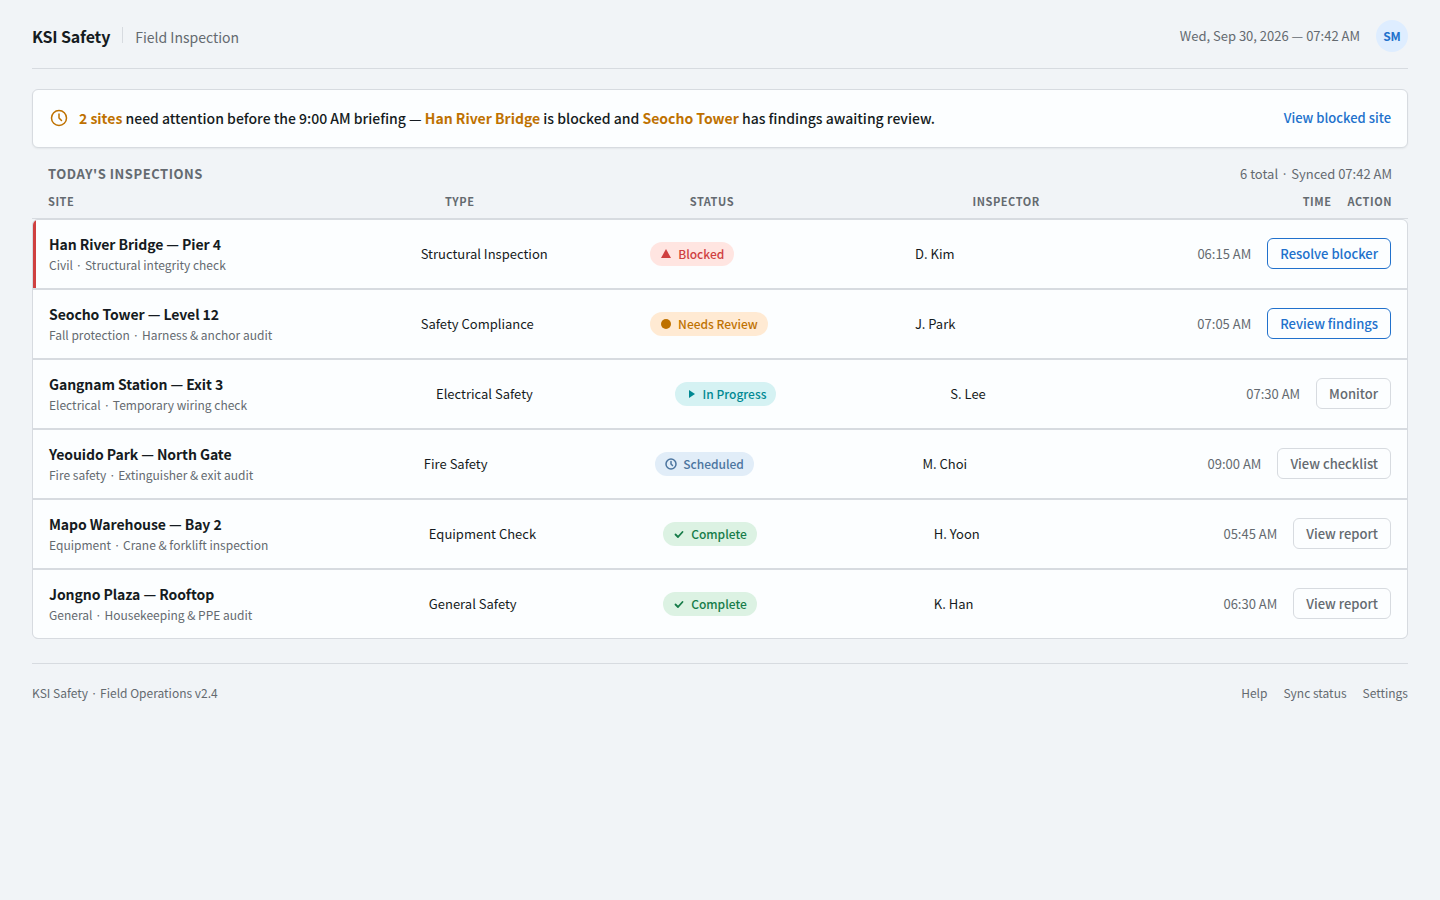
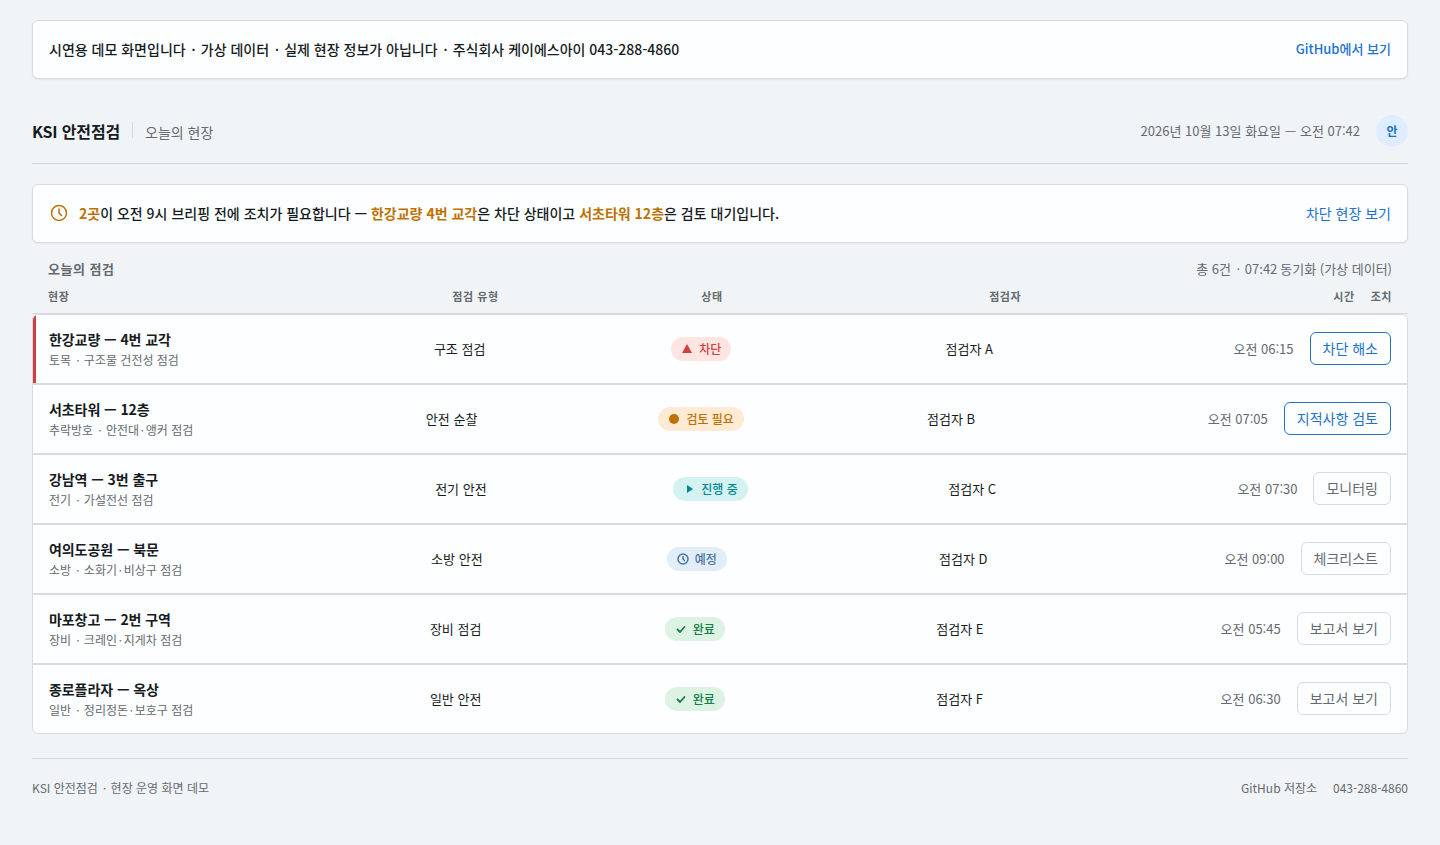
docs: 포트폴리오 문구와 반응형 시연 화면 개선

diff --git a/docs/demo-safety/index.html b/docs/demo-safety/index.html
@@ -2,7 +2,8 @@
 <html lang="ko">
 <head>
 <meta charset="UTF-8">
-<meta name="viewport" content="width=1440">
+<meta name="viewport" content="width=device-width, initial-scale=1">
+<meta name="description" content="가상 데이터를 사용한 KSI 현장 안전점검 화면 시연. 실제 현장·API·저장 기능과 연결되지 않은 정적 포트폴리오 데모입니다.">
 <title>KSI 안전점검 — 오늘의 현장 (시연용 데모)</title>
 <style>
   :root {
@@ -144,6 +145,17 @@
     border-bottom: 1px solid transparent;
     transition: border-color 0.15s;
   }
+
+  button.summary-action,
+  button.next-action,
+  button.next-action-secondary {
+    appearance: none;
+    background: transparent;
+    font: inherit;
+    cursor: pointer;
+  }
+
+  button.summary-action { border: 0; }
 
   .summary-action:hover {
     border-bottom-color: var(--accent);
@@ -351,106 +363,6 @@
     outline-offset: 2px;
   }
 
-  /* ── Empty state ── */
-  .empty-state {
-    display: flex;
-    flex-direction: column;
-    align-items: center;
-    justify-content: center;
-    padding: 64px 24px;
-    background: var(--surface);
-    border: 1px solid var(--border);
-    border-radius: var(--radius);
-    text-align: center;
-  }
-
-  .empty-icon {
-    width: 40px;
-    height: 40px;
-    color: var(--muted);
-    margin-bottom: 16px;
-  }
-
-  .empty-title {
-    font-size: 15px;
-    font-weight: 600;
-    margin-bottom: 6px;
-  }
-
-  .empty-desc {
-    font-size: 13px;
-    color: var(--muted);
-    max-width: 360px;
-  }
-
-  .empty-action {
-    margin-top: 16px;
-    font-size: 13px;
-    font-weight: 500;
-    color: var(--accent);
-    text-decoration: none;
-    padding: 6px 14px;
-    border: 1px solid var(--accent);
-    border-radius: var(--radius);
-    transition: background 0.12s, color 0.12s;
-  }
-
-  .empty-action:hover {
-    background: var(--accent);
-    color: var(--accent-fg);
-  }
-
-  /* ── Error state ── */
-  .error-state {
-    display: flex;
-    align-items: flex-start;
-    gap: 12px;
-    padding: 16px;
-    background: var(--status-bg-blocked);
-    border: 1px solid var(--status-blocked);
-    border-radius: var(--radius);
-    margin-top: 16px;
-  }
-
-  .error-icon {
-    width: 20px;
-    height: 20px;
-    flex-shrink: 0;
-    color: var(--status-blocked);
-    margin-top: 1px;
-  }
-
-  .error-title {
-    font-size: 14px;
-    font-weight: 600;
-    color: var(--status-blocked);
-    margin-bottom: 2px;
-  }
-
-  .error-desc {
-    font-size: 13px;
-    color: var(--fg);
-  }
-
-  .error-retry {
-    margin-left: auto;
-    font-size: 13px;
-    font-weight: 500;
-    color: var(--status-blocked);
-    text-decoration: none;
-    padding: 5px 12px;
-    border: 1px solid var(--status-blocked);
-    border-radius: var(--radius);
-    white-space: nowrap;
-    flex-shrink: 0;
-    transition: background 0.12s, color 0.12s;
-  }
-
-  .error-retry:hover {
-    background: var(--status-blocked);
-    color: var(--surface);
-  }
-
   /* ── Footer ── */
   .footer {
     display: flex;
@@ -477,6 +389,69 @@
   .footer-link:hover {
     color: var(--fg);
   }
+
+  .demo-toast {
+    position: fixed;
+    z-index: 5;
+    left: 50%;
+    bottom: 20px;
+    transform: translateX(-50%);
+    max-width: calc(100vw - 32px);
+    padding: 11px 16px;
+    border-radius: var(--radius);
+    background: var(--fg);
+    color: var(--surface);
+    box-shadow: var(--shadow-md);
+    text-align: center;
+    font-size: 13px;
+  }
+
+  @media (max-width: 800px) {
+    .app { padding: 0 16px 32px; }
+    .summary-bar { align-items: flex-start; flex-wrap: wrap; gap: 10px; padding: 12px; }
+    .summary-action { margin-left: 30px; }
+    .header { align-items: flex-start; flex-wrap: wrap; gap: 10px; }
+    .header-right { gap: 9px; }
+    .date-display { font-size: 12px; }
+    .list-header { padding: 0 2px 10px; }
+    .column-header { display: none; }
+    .inspection-row {
+      grid-template-columns: repeat(2, minmax(0, 1fr));
+      align-items: start;
+      gap: 12px 16px;
+      padding: 14px;
+    }
+    .inspection-row > div:first-child { grid-column: 1 / -1; }
+    .inspection-row > div:nth-child(2)::before { content: "점검 유형"; }
+    .inspection-row > div:nth-child(3)::before { content: "상태"; }
+    .inspection-row > div:nth-child(4)::before { content: "점검자"; }
+    .inspection-row > div:nth-child(5)::before { content: "시간"; }
+    .inspection-row > div:nth-child(n + 2):nth-child(-n + 5)::before {
+      display: block;
+      margin-bottom: 4px;
+      color: var(--muted);
+      font-size: 11px;
+      font-weight: 600;
+    }
+    .time-display { text-align: left; }
+    .inspection-row > button { grid-column: 1 / -1; justify-self: start; }
+    .footer { align-items: flex-start; flex-direction: column; gap: 10px; }
+  }
+
+  @media (max-width: 420px) {
+    .app { padding-right: 12px; padding-left: 12px; }
+    .summary-action { margin-left: 0; }
+    .header-left { gap: 8px; }
+    .header-divider { display: none; }
+    .header-right { width: 100%; justify-content: space-between; }
+    .inspection-row { gap: 11px 10px; padding: 12px; }
+    .next-action,
+    .next-action-secondary { padding: 5px 9px; font-size: 12px; }
+  }
+
+  @media (prefers-reduced-motion: reduce) {
+    *, *::before, *::after { scroll-behavior: auto !important; transition-duration: 0.01ms !important; }
+  }
 </style>
 </head>
 <body>
@@ -496,8 +471,8 @@
       <span class="page-title">오늘의 현장</span>
     </div>
     <div class="header-right">
-      <span class="date-display">2026년 9월 30일 수요일 — 오전 07:42</span>
-      <div class="user-avatar" title="Safety Manager">SM</div>
+      <span class="date-display">2026년 10월 13일 화요일 — 오전 07:42</span>
+      <div class="user-avatar" title="안전관리자">안</div>
     </div>
   </header>
 
@@ -508,7 +483,7 @@
       <circle cx="10" cy="10" r="7.5"/>
     </svg>
     <span class="summary-text"><strong>2곳</strong>이 오전 9시 브리핑 전에 조치가 필요합니다 — <strong>한강교량 4번 교각</strong>은 차단 상태이고 <strong>서초타워 12층</strong>은 검토 대기입니다.</span>
-    <a href="#" class="summary-action">차단 현장 보기</a>
+    <button class="summary-action" type="button" data-demo-target="inspection-row-han-river">차단 현장 보기</button>
   </div>
 
   <!-- List header -->
@@ -531,7 +506,7 @@
   <div class="inspection-list" data-od-id="inspection-list">
 
     <!-- Row 1: Blocked -->
-    <div class="inspection-row inspection-row-critical" data-od-id="inspection-row-han-river">
+    <div class="inspection-row inspection-row-critical" id="inspection-row-han-river" data-od-id="inspection-row-han-river">
       <div>
         <div class="site-name">한강교량 — 4번 교각</div>
         <div class="site-meta">토목 · 구조물 건전성 점검</div>
@@ -543,9 +518,9 @@
           차단
         </span>
       </div>
-      <div class="inspector-name">김도윤</div>
+      <div class="inspector-name">점검자 A</div>
       <div class="time-display">오전 06:15</div>
-      <a href="#" class="next-action">차단 해소</a>
+      <button class="next-action" type="button" data-demo-action="차단 해소">차단 해소</button>
     </div>
 
     <!-- Row 2: Needs review -->
@@ -561,9 +536,9 @@
           검토 필요
         </span>
       </div>
-      <div class="inspector-name">박지훈</div>
+      <div class="inspector-name">점검자 B</div>
       <div class="time-display">오전 07:05</div>
-      <a href="#" class="next-action">지적사항 검토</a>
+      <button class="next-action" type="button" data-demo-action="지적사항 검토">지적사항 검토</button>
     </div>
 
     <!-- Row 3: In progress -->
@@ -579,9 +554,9 @@
           진행 중
         </span>
       </div>
-      <div class="inspector-name">이서연</div>
+      <div class="inspector-name">점검자 C</div>
       <div class="time-display">오전 07:30</div>
-      <a href="#" class="next-action-secondary">모니터링</a>
+      <button class="next-action-secondary" type="button" data-demo-action="모니터링">모니터링</button>
     </div>
 
     <!-- Row 4: Scheduled -->
@@ -597,9 +572,9 @@
           예정
         </span>
       </div>
-      <div class="inspector-name">최민준</div>
+      <div class="inspector-name">점검자 D</div>
       <div class="time-display">오전 09:00</div>
-      <a href="#" class="next-action-secondary">체크리스트</a>
+      <button class="next-action-secondary" type="button" data-demo-action="체크리스트">체크리스트</button>
     </div>
 
     <!-- Row 5: Complete -->
@@ -615,9 +590,9 @@
           완료
         </span>
       </div>
-      <div class="inspector-name">윤하늘</div>
+      <div class="inspector-name">점검자 E</div>
       <div class="time-display">오전 05:45</div>
-      <a href="#" class="next-action-secondary">보고서 보기</a>
+      <button class="next-action-secondary" type="button" data-demo-action="보고서 보기">보고서 보기</button>
     </div>
 
     <!-- Row 6: Complete -->
@@ -633,37 +608,39 @@
           완료
         </span>
       </div>
-      <div class="inspector-name">한결</div>
+      <div class="inspector-name">점검자 F</div>
       <div class="time-display">오전 06:30</div>
-      <a href="#" class="next-action-secondary">보고서 보기</a>
+      <button class="next-action-secondary" type="button" data-demo-action="보고서 보기">보고서 보기</button>
     </div>
 
-  </div>
-
-  <!-- Error state (hidden by default, shown when data fails to load) -->
-  <div class="error-state" data-od-id="error-state" style="display: none;">
-    <svg class="error-icon" viewBox="0 0 20 20" fill="none" stroke="currentColor" stroke-width="1.5">
-      <path d="M10 7v4" stroke-linecap="round"/>
-      <circle cx="10" cy="13.5" r="0.5" fill="currentColor"/>
-      <path d="M10 3L2.5 16h15L10 3z" stroke-linejoin="round"/>
-    </svg>
-    <div>
-      <div class="error-title">Inspection data failed to load</div>
-      <div class="error-desc">The site list could not be retrieved. Your connection may be unstable, or the server is unavailable.</div>
-    </div>
-    <a href="#" class="error-retry">Retry</a>
   </div>
 
   <!-- Footer -->
   <footer class="footer" data-od-id="app-footer">
-    <span>KSI 안전점검 · 현장운영 v2.4 (시연용 데모)</span>
+    <span>KSI 안전점검 · 현장 운영 화면 데모</span>
     <div class="footer-links">
-      <a href="#" class="footer-link">도움말</a>
-      <a href="#" class="footer-link">동기화 상태</a>
-      <a href="#" class="footer-link">설정</a>
+      <a href="https://github.com/khakisketch/KSI-Opencode-Harness" class="footer-link">GitHub 저장소</a>
+      <a href="tel:0432884860" class="footer-link">043-288-4860</a>
     </div>
   </footer>
 
 </div>
+<div id="demo-toast" class="demo-toast" role="status" aria-live="polite" hidden></div>
+<script>
+  const toast = document.querySelector("#demo-toast");
+  let toastTimer;
+  document.querySelector("[data-demo-target]")?.addEventListener("click", (event) => {
+    const behavior = window.matchMedia("(prefers-reduced-motion: reduce)").matches ? "auto" : "smooth";
+    document.getElementById(event.currentTarget.dataset.demoTarget)?.scrollIntoView({ behavior, block: "center" });
+  });
+  document.querySelectorAll("[data-demo-action]").forEach((button) => {
+    button.addEventListener("click", () => {
+      toast.textContent = `${button.dataset.demoAction} — 시연 화면입니다. 실제 처리·저장은 연결되어 있지 않습니다.`;
+      toast.hidden = false;
+      clearTimeout(toastTimer);
+      toastTimer = setTimeout(() => { toast.hidden = true; }, 3600);
+    });
+  });
+</script>
 </body>
 </html>
